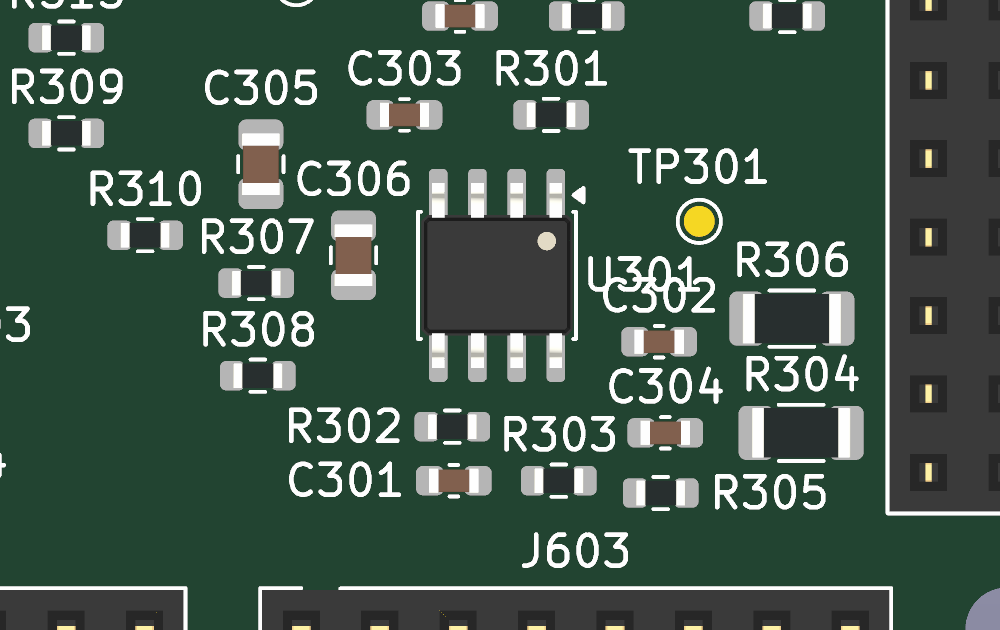
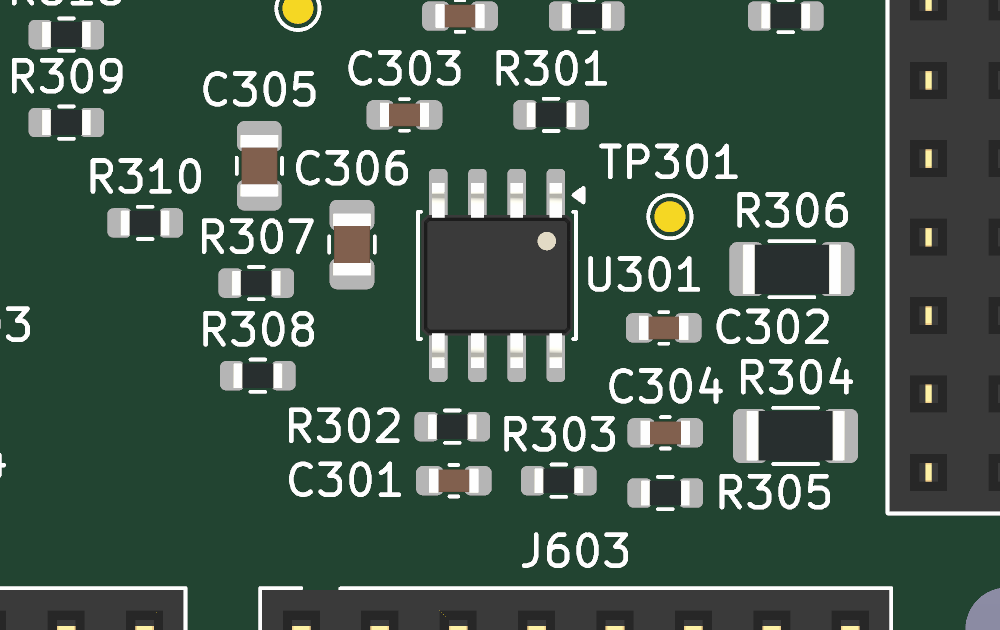
hardware: AWG block, C302 beside, C305 at its tie (relayout, not routed)
C302's label east (silkread rule 2b, D30). C305 is 2.94 mm from R307.2
(limit 2.94), C306 2.29; R304, R306 and TP301 moved to clear C302's
label. R305 and C304 share x 85.45. Silkread 0 findings on the AWG
parts. The 0.05 mm step of the AWG_INV search was a +-0.7 mm local
refinement around the 0.25 mm optimum, not a global search; the
frontier (DAC0 excess over main + 1.0 -> tree): 1.02 -> 6.965,
1.11 -> 6.815, 1.17 -> 6.565, 1.28 -> 6.335, 1.37 -> 6.185,
1.46 -> 6.085, 1.54 -> 5.985 (placed), 1.65 -> 5.935. Renders are
from the unrouted build: 0 tracks, vias and filled zones.

Claude-Session: https://claude.ai/code/session_01GL7oYDXFNtALxKUhyZb7As

diff --git a/hardware/afe-proto/kicad/relayout/fixpos.py b/hardware/afe-proto/kicad/relayout/fixpos.py
@@ -18,7 +18,7 @@ LADDER = {'R503', 'R504', 'R505', 'R506', 'R507', 'R508'}
 HAND = {'R508': (52.07, 6.5), 'R506': (57.15, 6.5), 'R504': (62.23, 6.5), 'R507': (54.61, 9.35), 'R505': (59.69, 9.35),
         'R503': (63.05, 10.15), 'J501': (56.54, 14.9), 'C502': (58.6, 26.4), 'D501': (62.4, 28.45), 'R509': (51.0, 38.4),
         'R405': (36.4, 11.2), 'C408': (40.2, 11.4), 'C407': (40.2, 16.25), 'R407': (42.2, 21.1), 'R401': (29.4, 17.3), 'R409': (29.6, 21.1), 'R406': (37.8, 21.1), 'R403': (32.4, 8.3), 'R404': (36.9, 7.55), 
-        'TP402': (22.0, 25.5), 'TP403': (27.0, 25.5), 'TP404': (32.0, 25.5), 'TP401': (37.0, 25.5), 'TP405': (42.0, 25.5), 'R408': (23.0, 29.5), 'R410': (29.0, 29.5),  'C402': (36.9, 14.9), 'C403': (33.9, 17.9), 'C401': (29.5, 11.5), 'R302': (78.55, 9.1), 'R303': (82.0, 7.35), 'C301': (78.6, 7.35), 'R305': (85.3, 6.95), 'C304': (85.45, 8.9)}
+        'TP402': (22.0, 25.5), 'TP403': (27.0, 25.5), 'TP404': (32.0, 25.5), 'TP401': (37.0, 25.5), 'TP405': (42.0, 25.5), 'R408': (23.0, 29.5), 'R410': (29.0, 29.5),  'C402': (36.9, 14.9), 'C403': (33.9, 17.9), 'C401': (29.5, 11.5), 'R302': (78.55, 9.1), 'R303': (82.0, 7.35), 'C301': (78.6, 7.35), 'R305': (85.45, 6.95), 'C304': (85.45, 8.9), 'C305': (72.3, 17.55)}
 ANCH = set(C.ANCHORS) | {'R411', 'U101', 'U301', 'U401', 'C402'} | set(HAND)
 LOCKX = WALLREFS | {'R110', 'J501'}
 NOLAB = ['J601','J602','J603','J604','J605','J606','J607','J101','J201','J301']

diff --git a/hardware/afe-proto/kicad/relayout/sr2.py b/hardware/afe-proto/kicad/relayout/sr2.py
@@ -4,6 +4,6 @@ from pcbtools.boards import v1 as C
 p = sys.argv[1]
 b = boardio.read_board(p)
 txt = open(p).read()
-f = silkread.findings(b, {'J101': 'CH1 IN', 'J201': 'CH2 IN', 'J301': 'AWG OUT'}, edge_headers=('J601','J602','J603','J604','J605','J606','J607'), silk=silkread.read_silk(txt), east_end={'U301'}, beside={'R302','C301','R305'})
+f = silkread.findings(b, {'J101': 'CH1 IN', 'J201': 'CH2 IN', 'J301': 'AWG OUT'}, edge_headers=('J601','J602','J603','J604','J605','J606','J607'), silk=silkread.read_silk(txt), east_end={'U301'}, beside={'R302','C301','R305','C302'})
 print(len(f))
 for x in f[:int(sys.argv[2]) if len(sys.argv) > 2 else 40]: print(x[:170])
